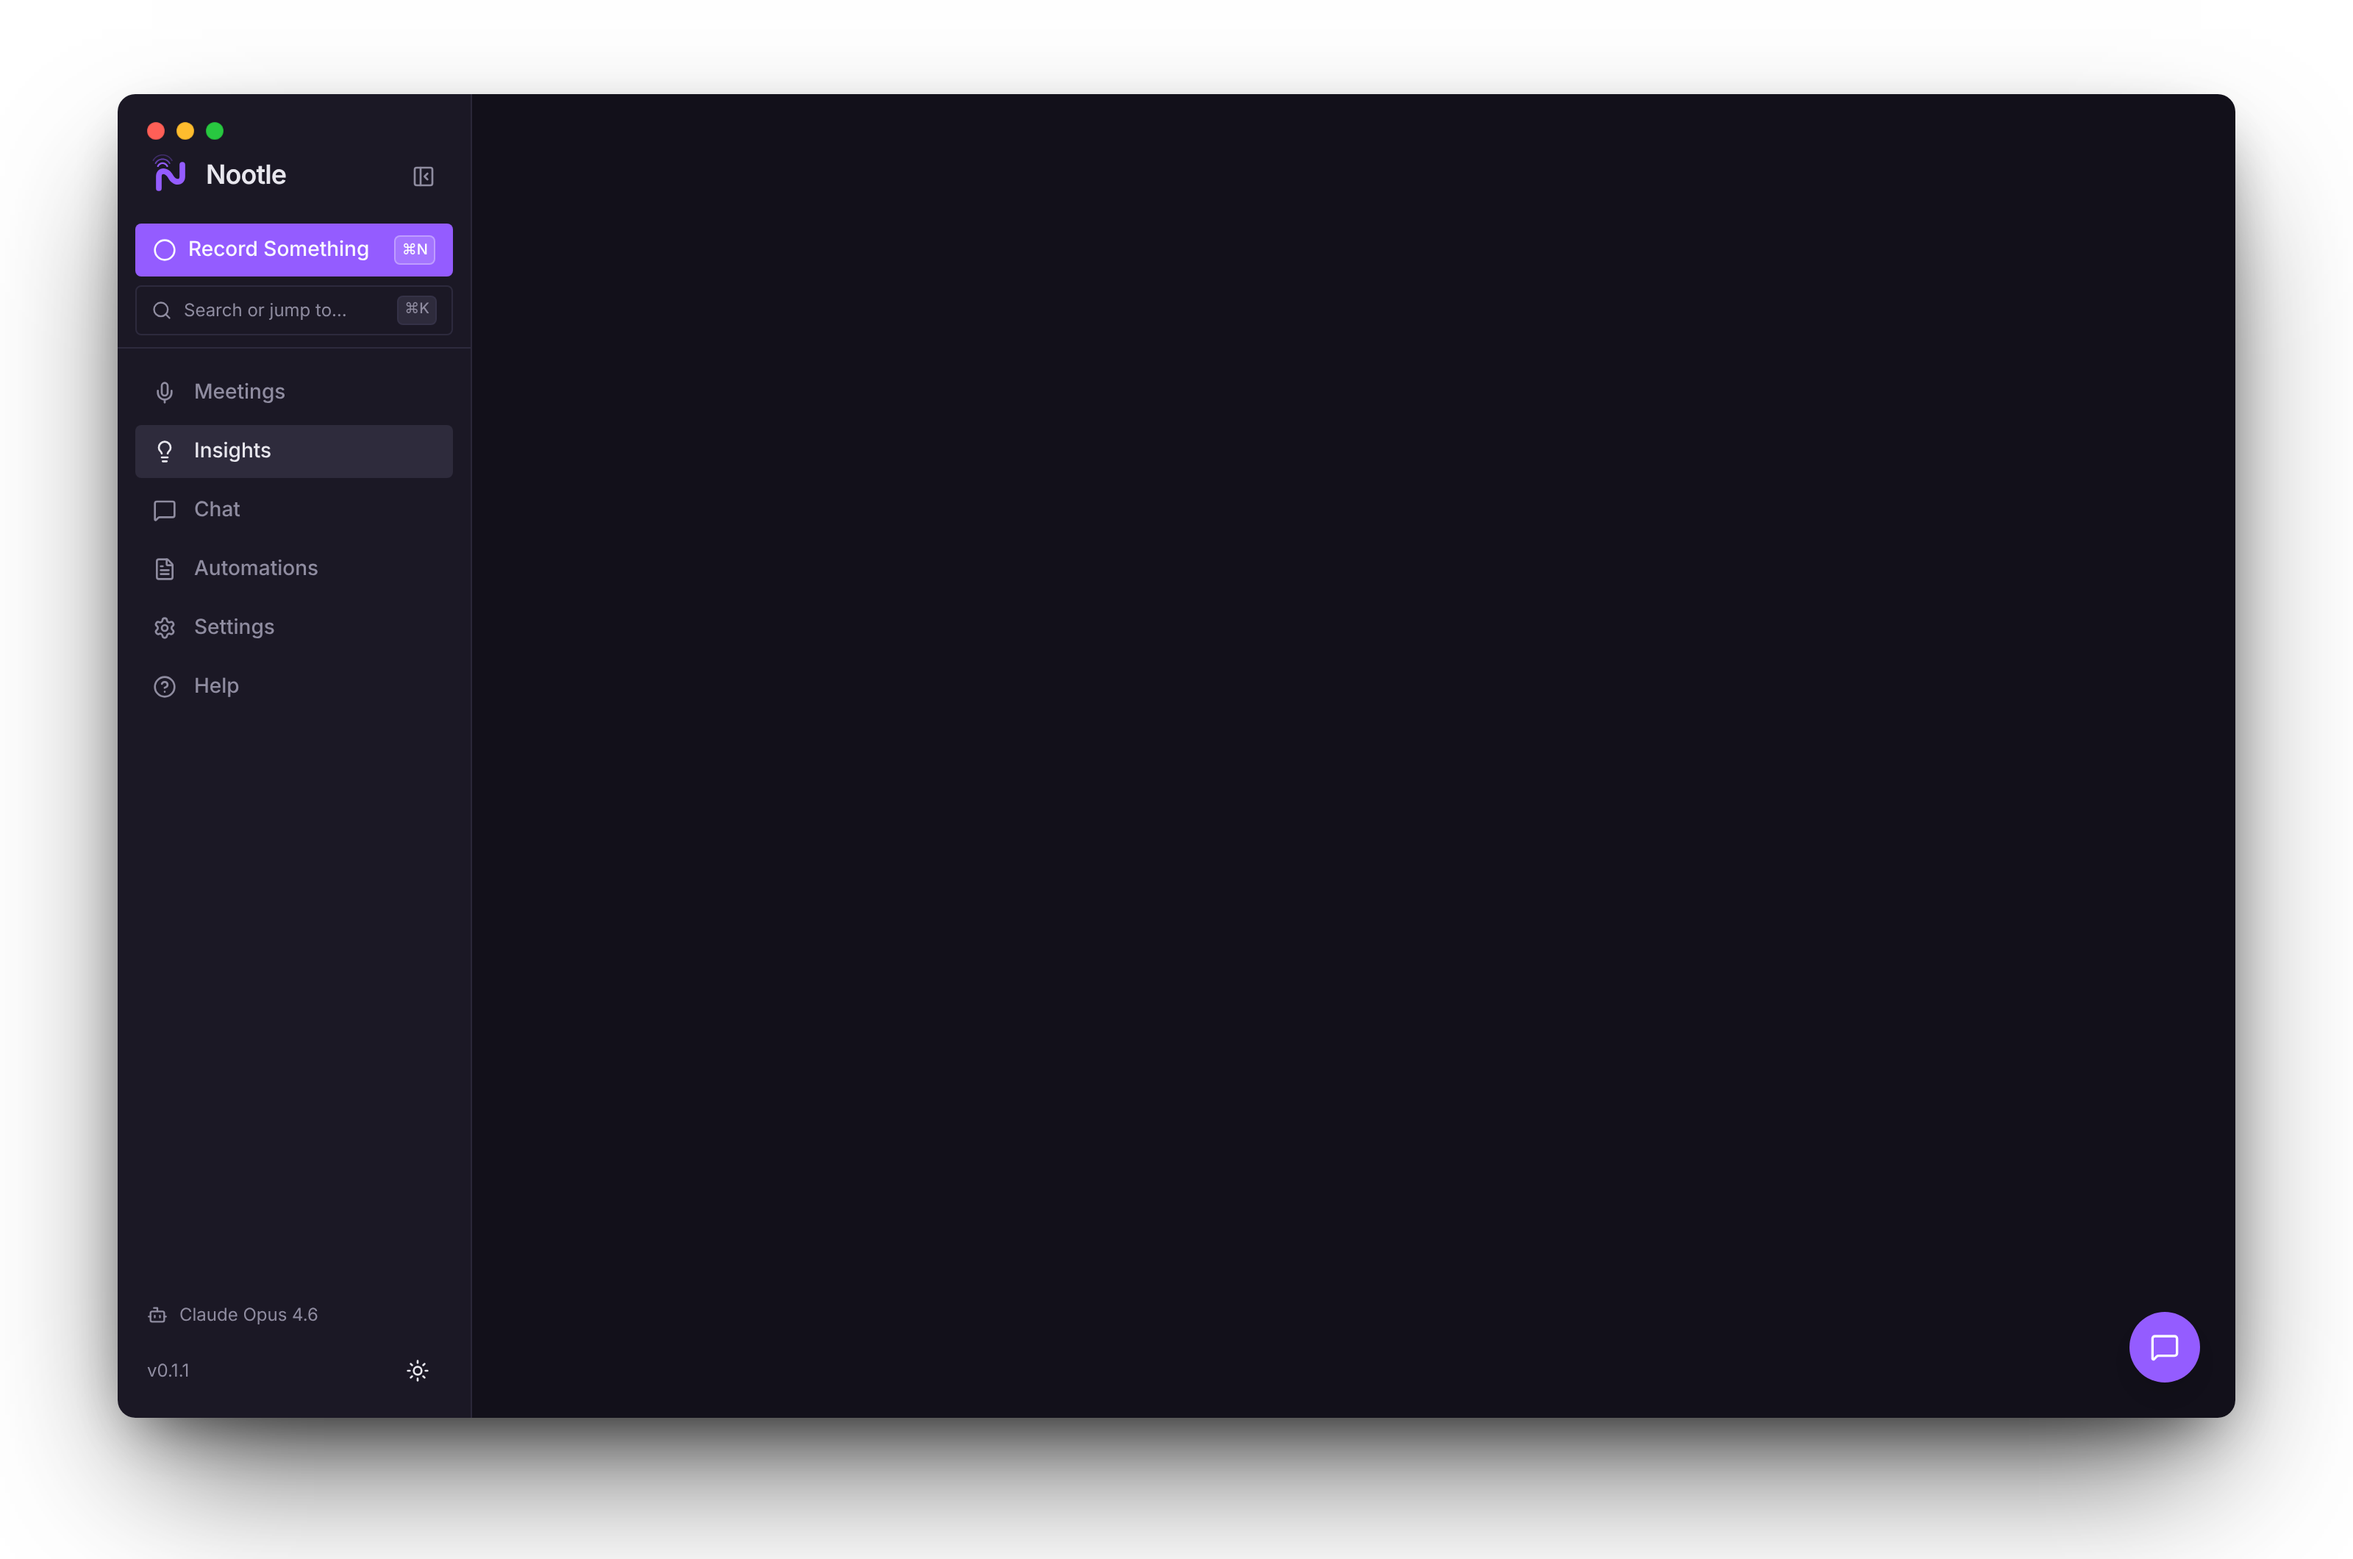
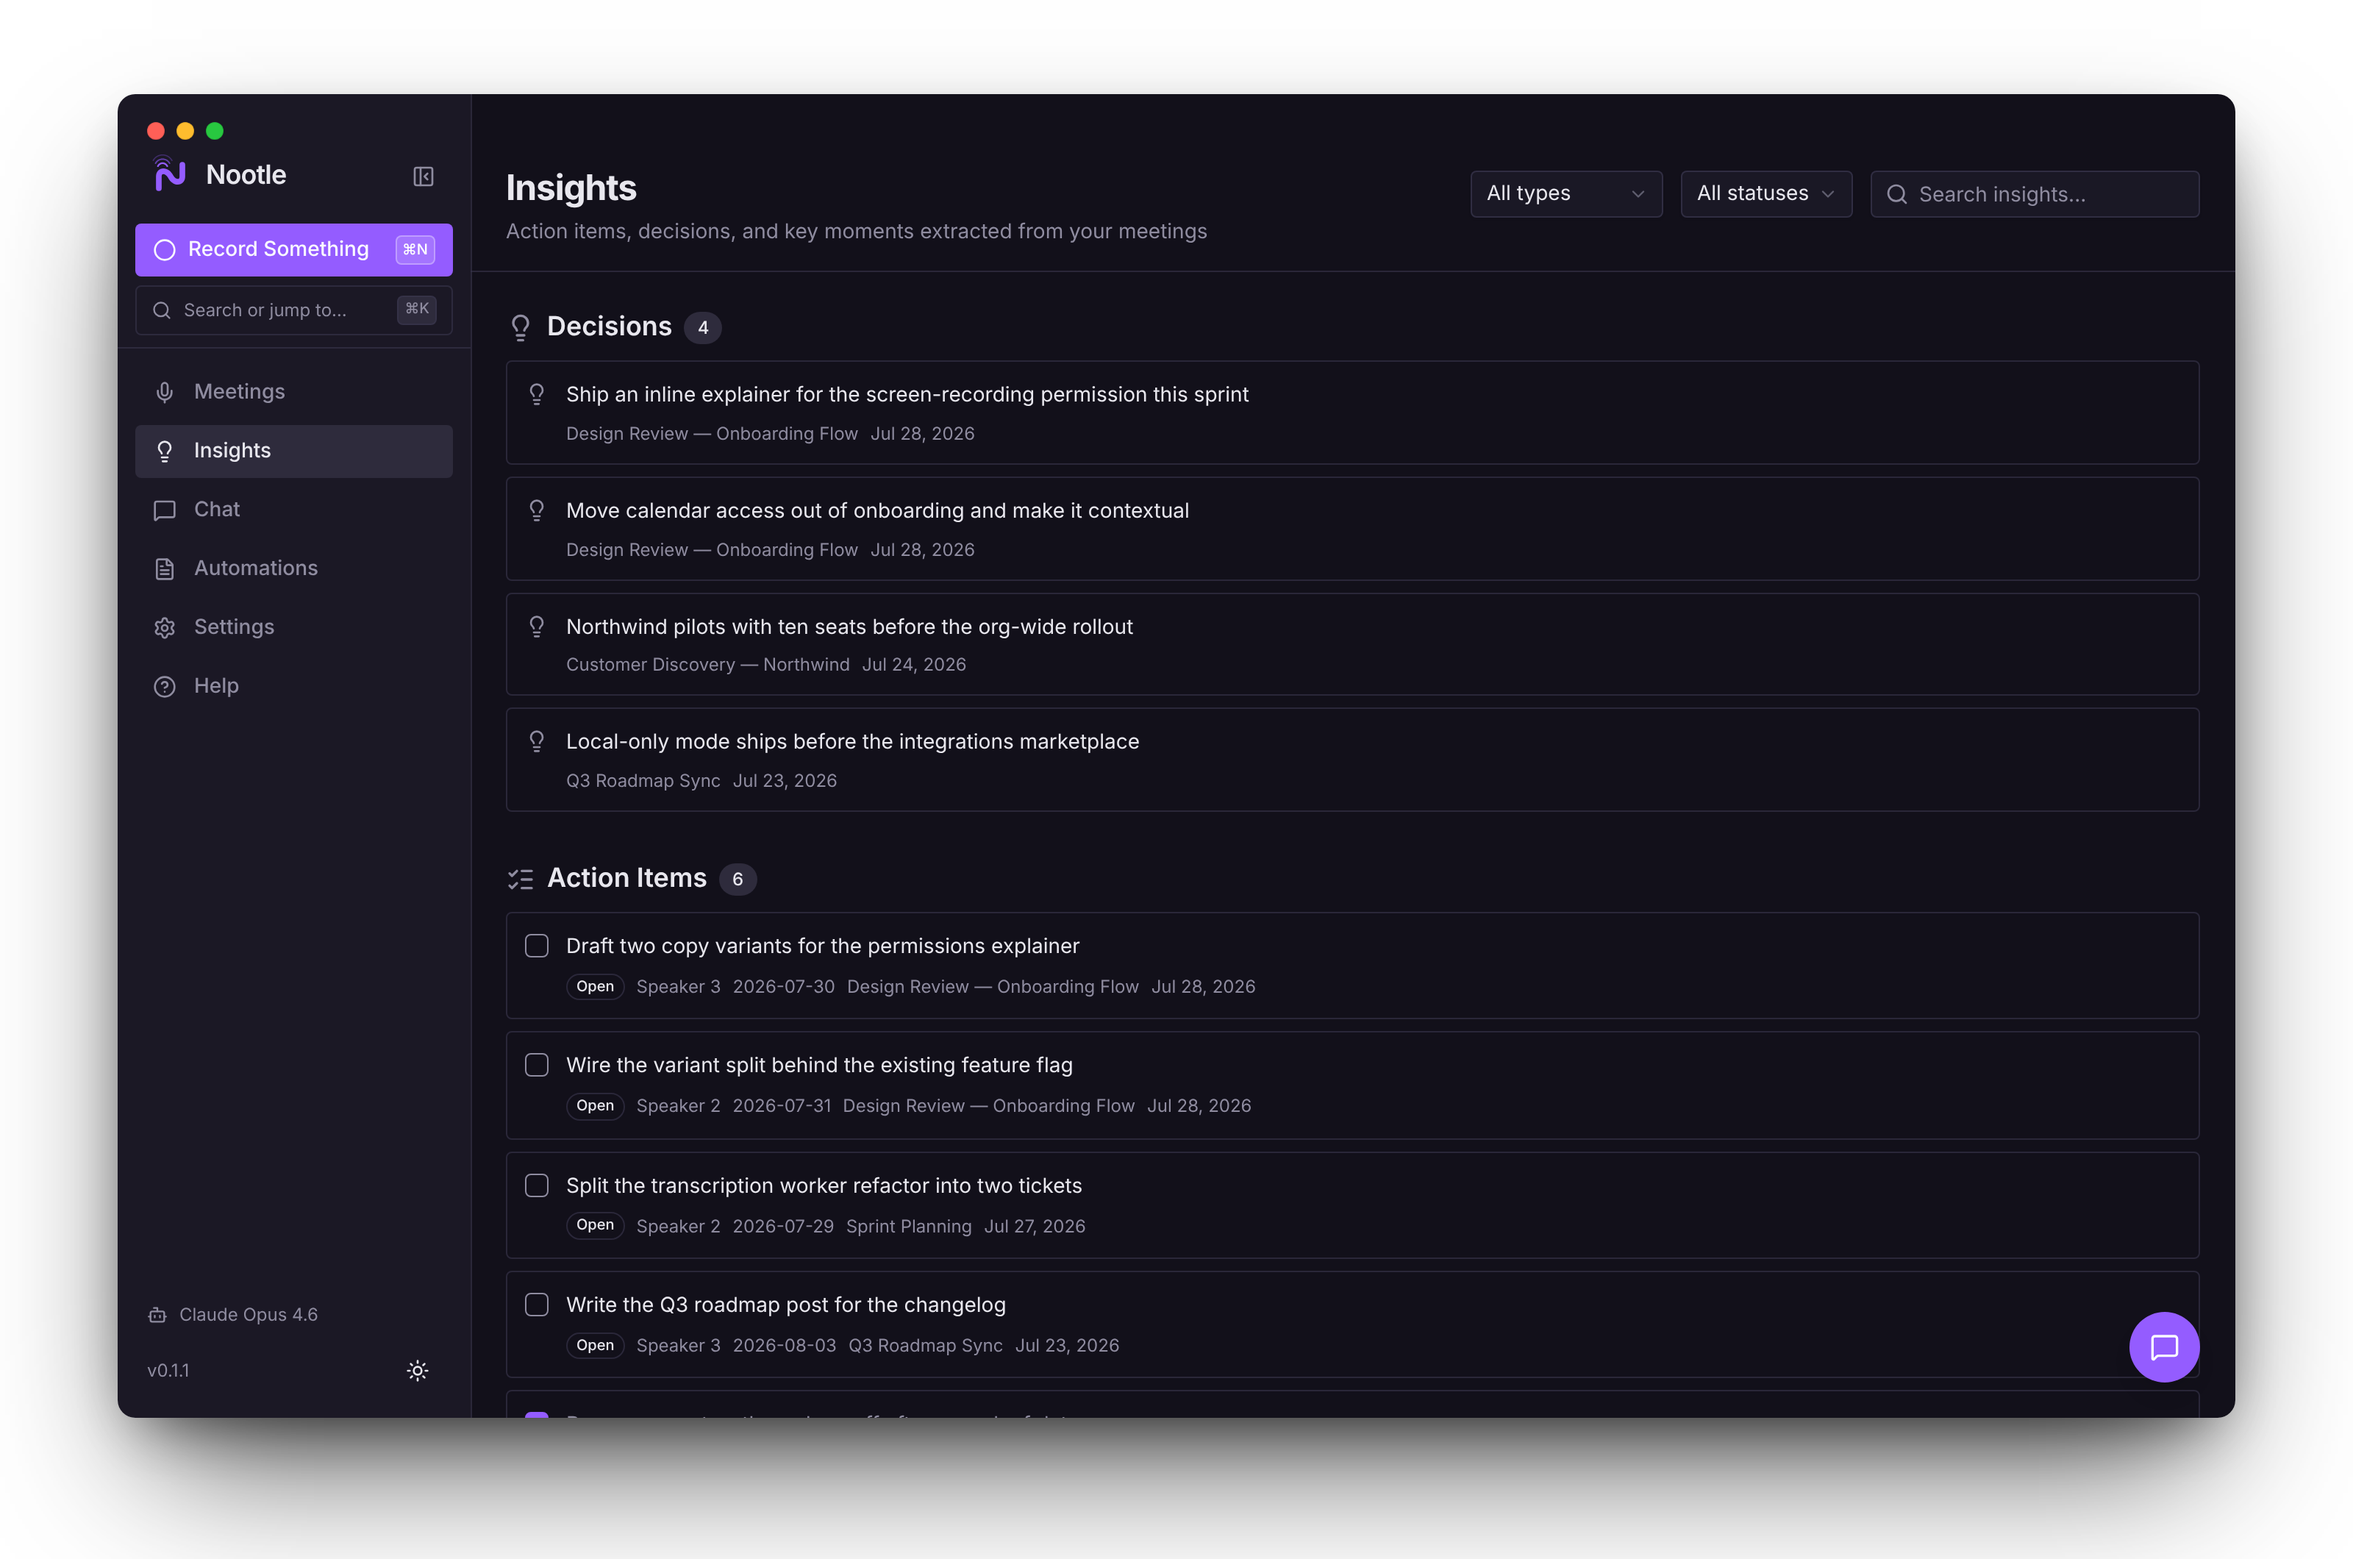
fix(screenshots): stop blank meeting, insights, and chat captures (#128)
* fix(screenshots): stop blank meeting, insights, and chat captures

The harness froze the browser clock with context.clock.setFixedTime, which
also stops performance.now and requestAnimationFrame. framer-motion entrance
animations never advanced, so those pages were captured at opacity 0.

Shift only Date to DEMO_NOW instead, and regenerate all screenshots.

Claude-Session: https://claude.ai/code/session_01Mep55qpfQNbPvHHnwCSd1s

* refactor(screenshots): apply simplify review

Correct the clock comment (Playwright's fake timers and rAF, not a frozen
performance.now, stall the animations), reuse DemoDate.now(), and drop the
duplicated explanation from the harness README.

Claude-Session: https://claude.ai/code/session_01Mep55qpfQNbPvHHnwCSd1s

---------

diff --git a/scripts/screenshots/README.md b/scripts/screenshots/README.md
@@ -26,7 +26,7 @@ screenshots the next time this runs — no mockup to keep in sync.
 ## Editing
 
 - **Demo content** — `demo-data.mjs`. Every value is fictional. Dates are fixed,
-  and the browser clock is frozen at `DEMO_NOW`, so relative dates and the
+  and the browser's `Date` starts at `DEMO_NOW`, so relative dates and the
   streak render the same on every run.
 - **Which screens get captured** — the `SHOTS` array in `capture.mjs`.
 - **Window chrome** — the `frame()` function in `capture.mjs`.
